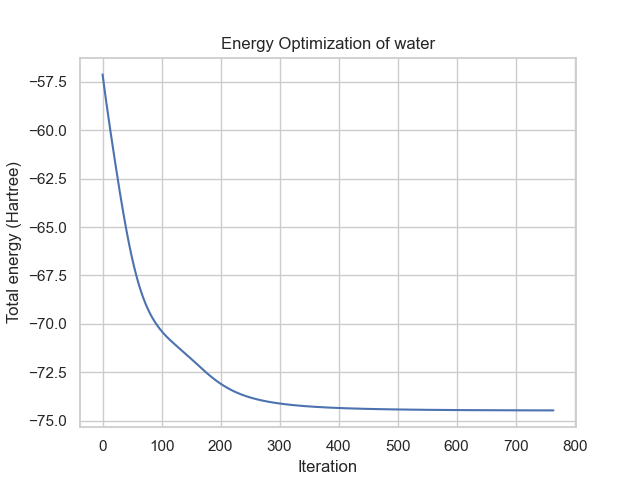
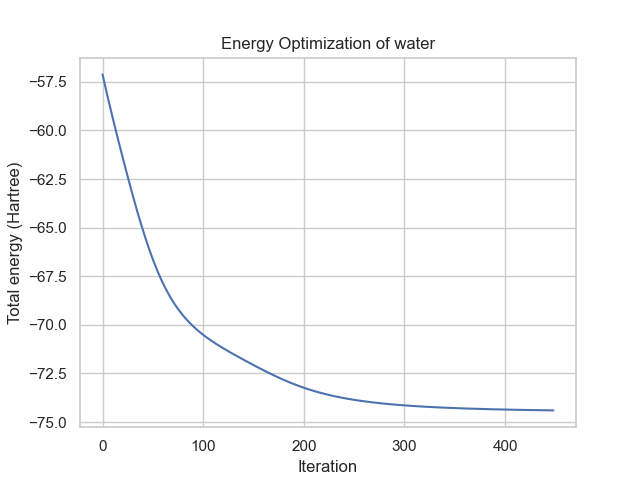
Startig jaxscf

diff --git a/dft_opt/jaxscf.py b/dft_opt/jaxscf.py
@@ -1,0 +1,172 @@
+import jax
+import jax.numpy as jnp
+import jax.numpy.linalg as jnl
+from pyscfad.gto import Mole
+
+
+HERMITIAN = 1
+ANTIHERMI = 2
+
+
+@jax.jit
+def energy_tot(mf, dm=None, h1e=None, vhf=None, dispersion=None):
+    vhf = get_veff(dm=dm)
+    e1 = jnp.einsum('ij,ji->', h1e, dm).real
+    e_coul = jnp.einsum('ij,ji->', vhf, dm).real * .5
+    e_tot = e1 + e_coul + dispersion
+    return e_tot
+
+@jax.jit
+def Hamiltonian(mol, P, h1e, dispersion):
+    vhf = get_veff(mol, P)
+    e_elec = energy_tot(P, h1e, vhf, dispersion)
+    return e_elec
+
+
+def get_veff(mol, dm, dm_last=None, vhf_last=None, hermi=1, vhfopt=None):
+    vj, vk = get_jk(mol, jnp.asarray(dm), hermi, vhfopt)
+    return vj - vk * .5
+
+
+def get_jk(mol, dm, hermi=1, vhfopt=None, with_j=True, with_k=True, omega=None):
+    dm = jnp.asarray(dm, order='C')
+    dm_shape = dm.shape
+    dm_dtype = dm.dtype
+    nao = dm_shape[-1]
+
+    if dm_dtype == jnp.complex128:
+        dm = jnp.vstack((dm.real, dm.imag)).reshape(-1,nao,nao)
+        hermi = 0
+
+    with mol.with_range_coulomb(omega):
+        vj, vk = direct(dm, mol._atm, mol._bas, mol._env, vhfopt, hermi, mol.cart, with_j, with_k)
+
+    if dm_dtype == jnp.complex128:
+        if with_j:
+            vj = vj.reshape((2,) + dm_shape)
+            vj = vj[0] + vj[1] * 1j
+        if with_k:
+            vk = vk.reshape((2,) + dm_shape)
+            vk = vk[0] + vk[1] * 1j
+    else:
+        if with_j:
+            vj = vj.reshape(dm_shape)
+        if with_k:
+            vk = vk.reshape(dm_shape)
+    return vj, vstack
+
+def direct(dms, atm, bas, env, vhfopt=None, hermi=0, cart=False,
+           with_j=True, with_k=True, out=None, optimize_sr=False):
+    dms = jnp.asarray(dms, order='C', dtype=jnp.double)
+    dms_shape = dms.shape
+    nao = dms_shape[-1]
+    dms = dms.reshape(-1,nao,nao)
+    n_dm = dms.shape[0]
+
+    if vhfopt is None:
+        cvhfopt = None
+        cintopt = None
+        if cart:
+            intor = 'int2e_cart'
+        else:
+            intor = 'int2e_sph'
+    else:
+        vhfopt.set_dm(dms, atm, bas, env)
+        cvhfopt = vhfopt._this
+        cintopt = vhfopt._cintopt
+        intor = vhfopt._intor
+
+    vj = vk = None
+    jkscripts = []
+    n_jk = 0
+    if with_j:
+        jkscripts.extend(['ji->s2kl']*n_dm)
+        n_jk += 1
+    if with_k:
+        if hermi == 1:
+            jkscripts.extend(['li->s2kj']*n_dm)
+        else:
+            jkscripts.extend(['li->s1kj']*n_dm)
+        n_jk += 1
+    if n_jk == 0:
+        return vj, vk
+
+    dms = list(dms) * n_jk
+    if out is None:
+        out = jnp.empty((n_jk*n_dm, nao, nao))
+    nr_direct_drv(intor, 's8', jkscripts, dms, 1, atm, bas, env,
+                  cvhfopt, cintopt, out=out, optimize_sr=optimize_sr)
+    if with_j and with_k:
+        vj = out[:n_dm]
+        vk = out[n_dm:]
+    elif with_j:
+        vj = out
+    else:
+        vk = out
+
+    if with_j:
+        for i in range(n_dm):
+            lib.hermi_triu(vj[i], 1, inplace=True)
+        vj = vj.reshape(dms_shape)
+    if with_k:
+        if hermi != 0:
+            for i in range(n_dm):
+                lib.hermi_triu(vk[i], hermi, inplace=True)
+        vk = vk.reshape(dms_shape)
+
+    return vj, vk
+
+
+def hermi_triu(mat, hermi=HERMITIAN, inplace=True):
+
+    assert (hermi == HERMITIAN or hermi == ANTIHERMI)
+
+    if not inplace:
+        mat = mat.copy('A')
+
+    if mat.flags.c_contiguous:
+        buf = mat
+    elif mat.flags.f_contiguous:
+        buf = mat.T
+    else:
+        raise NotImplementedError
+
+    nd = mat.shape[0]
+    assert (mat.size == nd**2)
+
+    if mat.dtype == jnp.double:
+        fn = _np_helper.NPdsymm_triu
+    elif mat.dtype == jnp.complex128:
+        fn = _np_helper.NPzhermi_triu
+    else:
+        raise NotImplementedError
+
+    fn.restype = ctypes.c_void_p
+    fn(ctypes.c_int(nd), buf.ctypes.data_as(ctypes.c_void_p),
+       ctypes.c_int(hermi))
+    return mat
+
+
+def get_X(mol):
+    S = jnp.array(mol.intor(f"int1e_ovlp"))
+    N = 1 / jnp.sqrt(jnp.diagonal(S))
+    overlap = N[:, jnp.newaxis] * N[jnp.newaxis, :] * S
+    s, U = jnl.eigh(overlap)
+    s = jnp.diag(jnp.power(s, -0.5))
+    X = U @ s @ U.T
+    return X
+
+
+@jax.jit
+def occupancy(mol) -> jnp.ndarray:
+    occ = jnp.full(mol.nao, 2.0)
+    mask = occ.cumsum() > mol.tot_electrons()
+    occ = jnp.where(mask, 0.0, occ)
+    return occ
+
+
+@jax.jit
+def density_matrix(C: jnp.ndarray, occupancy: jnp.ndarray) ->jnp.ndarray:
+    return jnp.einsum("k,ik,jk->ij", occupancy, C, C)
+
+

diff --git a/dft_opt/opt.py b/dft_opt/opt.py
@@ -4,6 +4,7 @@ import optax
 import equinox as eqx
 import jax.numpy as jnp
 import optimistix as optx
+from .orthonormalize import cayley, qr
 
 
 def get_solver(optimizer, atol=1e-4, rtol=1e-4, lr=0.001):
@@ -18,44 +19,62 @@ def get_solver(optimizer, atol=1e-4, rtol=1e-4, lr=0.001):
         raise ValueError("Invalid optimizer")
 
 
-def solve(H, iter, lr, optimizer):
+def solve(H, iter, lr, optimizer, ortho_fn):
     n, _ = H.X.shape
     Z_init = jnp.eye(n, device=H.X.device)
+    solver = get_solver(optimizer=optimizer, lr=lr)
+
+    if ortho_fn == "cayley":
+        @jax.jit
+        def energy(Z, X):
+            C = X @ cayley(Z)
+            P = H.density_matrix(C)
+            out = H(P)
+            return out
+
+    else: 
+        @jax.jit
+        def energy(Z, X):
+            C = X @ qr(Z)
+            P = H.density_matrix(C)
+            out = H(P)
+            return out
     
-    @jax.jit
-    def energy(Z, _):
-        C = H.X @ H.orthonormalize(Z)
-        P = H.density_matrix(C)
-        out = H(P)
-        return out
-
-    solver = get_solver(optimizer=optimizer, lr=lr)
-
     start_time = time.time()
-    sol = optx.minimise(energy, solver, Z_init, max_steps=iter)
+    sol = optx.minimise(energy, solver, Z_init, args=H.X, max_steps=iter)
     elapsed_time = (time.time() - start_time) * 1000
+    out = energy(sol.value, H.X)
 
-    return sol.value, energy(sol.value, None), elapsed_time 
+    return sol.value, out, elapsed_time 
 
 
-def solve_with_history(H, iter, lr, optimizer):
+def solve_with_history(H, iter, lr, optimizer, ortho_fn):
     y = jnp.eye(H.X.shape[0])
-
-    @jax.jit
-    def energy(Z, _):
-        C = H.X @ H.orthonormalize(Z)
-        P = H.density_matrix(C)
-        e = H(P)
-        aux = None
-        return e, aux
-
     solver = get_solver(optimizer=optimizer, lr=lr)
 
-    args = None
+    args = H.X
     f_struct = jax.ShapeDtypeStruct((), jnp.float64)
     options = dict()
     aux_struct = None
     tags = frozenset()
+
+    if ortho_fn == "cayley":
+        @jax.jit
+        def energy(Z, X):
+            C = X @ cayley(Z)
+            P = H.density_matrix(C)
+            e = H(P)
+            aux = None
+            return e, aux
+        
+    else:   
+        @jax.jit
+        def energy(Z, X):
+            C = X @ qr(Z)
+            P = H.density_matrix(C)
+            e = H(P)
+            aux = None
+            return e, aux
 
     step = eqx.filter_jit(
         eqx.Partial(solver.step, fn=energy, args=args, options=options, tags=tags)
@@ -68,9 +87,8 @@ def solve_with_history(H, iter, lr, optimizer):
     done, result = terminate(y=y, state=state)
     
     history = [energy(y, args)[0].item()]
-    start_time = time.time()
     while not done and len(history) < iter:
-        y, state, aux = step(y=y, state=state)
+        y, state, _ = step(y=y, state=state)
         done, result = terminate(y=y, state=state)
         history.append(energy(y, args)[0].item())
 

diff --git a/main.py b/main.py
@@ -56,25 +56,26 @@ def main():
     print(f"PySCF Energy: [{pyscf_energy:.2f}], Time: [{pyscf_time:.2f} ms]", flush=True)
     ####################################
     
+
     ####################################
     # Solve with JAX
     ####################################
-    H = Hamiltonian(mol=mol, kernel=mf, orthos=args.ortho)
-    Z, E, elapsed_time = solve(H, args.num_iter, args.lr, args.optimizer)
+    H = Hamiltonian(mol=mol, kernel=mf)
+    Z, E, elapsed_time = solve(H, args.num_iter, args.lr, args.optimizer, args.ortho)
     print(f"JAX Energy: [{E:.2f}], Time: [{elapsed_time:.2f} ms]", flush=True)
     ####################################
     
     ####################################
     # Check if the optimized Z is valid
     ####################################
-    validate(Z, H, sum(mol.nelec))
+    validate(Z, H, sum(mol.nelec), args.ortho)
     print("All tests passed!", flush=True)
     ####################################
 
     ###################################
     # Record history for plotting
     ###################################
-    history = solve_with_history(H, args.num_iter, args.lr, args.optimizer)
+    history = solve_with_history(H, args.num_iter, args.lr, args.optimizer, args.ortho)
     plot_energy(history, args)
     ####################################
 

diff --git a/dft_opt/hamiltonian.py b/dft_opt/hamiltonian.py
@@ -1,33 +1,27 @@
+import jax
 import equinox as eqx
 import jax.numpy as jnp
 import jax.numpy.linalg as jnl
-from .orthonormalize import cayley, qr
-from pyscfad.gto import Mole
-# from pyscfad.dft import RKS
 from pyscfad.scf import RHF
-from typing import Union
-    
+from pyscfad.gto import Mole
+
 
 class Hamiltonian(eqx.Module):
     _mol: Mole
     _kernel: RHF
-    _orthos: Union[cayley, qr]
 
-    def __init__(self, mol: Mole, kernel: RHF, orthos: str):
+    def __init__(self, mol: Mole, kernel: RHF):
         self._mol = mol
         self._kernel = kernel
-        self._orthos = cayley if orthos == "cayley" else qr
     
+    @jax.jit
     def density_matrix(self, C: jnp.ndarray) ->jnp.ndarray:
         return jnp.einsum("k,ik,jk->ij", self.occupancy, C, C)
 
-    def orthonormalize(self, Z: jnp.ndarray) -> jnp.ndarray:
-        return self._orthos(Z)
-
+    @jax.jit
     def __call__(self, P: jnp.ndarray) -> jnp.ndarray:
-        h1e = self._kernel.get_hcore()
         vhf = self._kernel.get_veff(dm=P)
-        e_tot = self._kernel.energy_tot(dm=P, h1e=h1e, vhf=vhf)
+        e_tot = self._kernel.energy_tot(dm=P, h1e=self.hcore, vhf=vhf)
         return e_tot
     
     @property

diff --git a/dft_opt/orthonormalize.py b/dft_opt/orthonormalize.py
@@ -16,22 +16,32 @@ def cayley(Z):
     return Q
 
 
-def validate(Z, H, nelec):
-    Q = H.orthonormalize(Z) 
+def validate(Z, H, nelec, ortho_fn):
+    if ortho_fn == "cayley":
+        Q = cayley(Z)
+
+        @jax.jit
+        def energy(Z, X):
+            C = X @ cayley(Z)
+            P = H.density_matrix(C)
+            e = H(P)
+            return e
+    else:
+        Q = qr(Z)
+
+        @jax.jit
+        def energy(Z, X):
+            C = X @ qr(Z)
+            P = H.density_matrix(C)
+            e = H(P)
+            return e    
+
     C = H.X @ Q
     P = H.density_matrix(C)
     S = jnp.linalg.inv(H.X @ H.X.T)
 
-    @jax.jit
-    def energy(Z, _):
-        C = H.X @ H.orthonormalize(Z)
-        P = H.density_matrix(C)
-        e = H(P)
-        aux = None
-        return e, aux
-
     assert jnp.allclose(jnp.eye(Z.shape[0]), Q.T @ Q, atol=1e-5), "Q is not orthonormal"
     assert jnp.allclose(nelec, jnp.trace(P @ S), atol=1e-5), f"Trace(P @ S) != N"
 
-    Hessian = jax.hessian(lambda X: energy(X, None)[0])(Z)
+    Hessian = jax.hessian(lambda X: energy(X, H.X))(Z)
     assert jnl.eigh(Hessian)[0].all() >= 0, "Hession != PSD"
